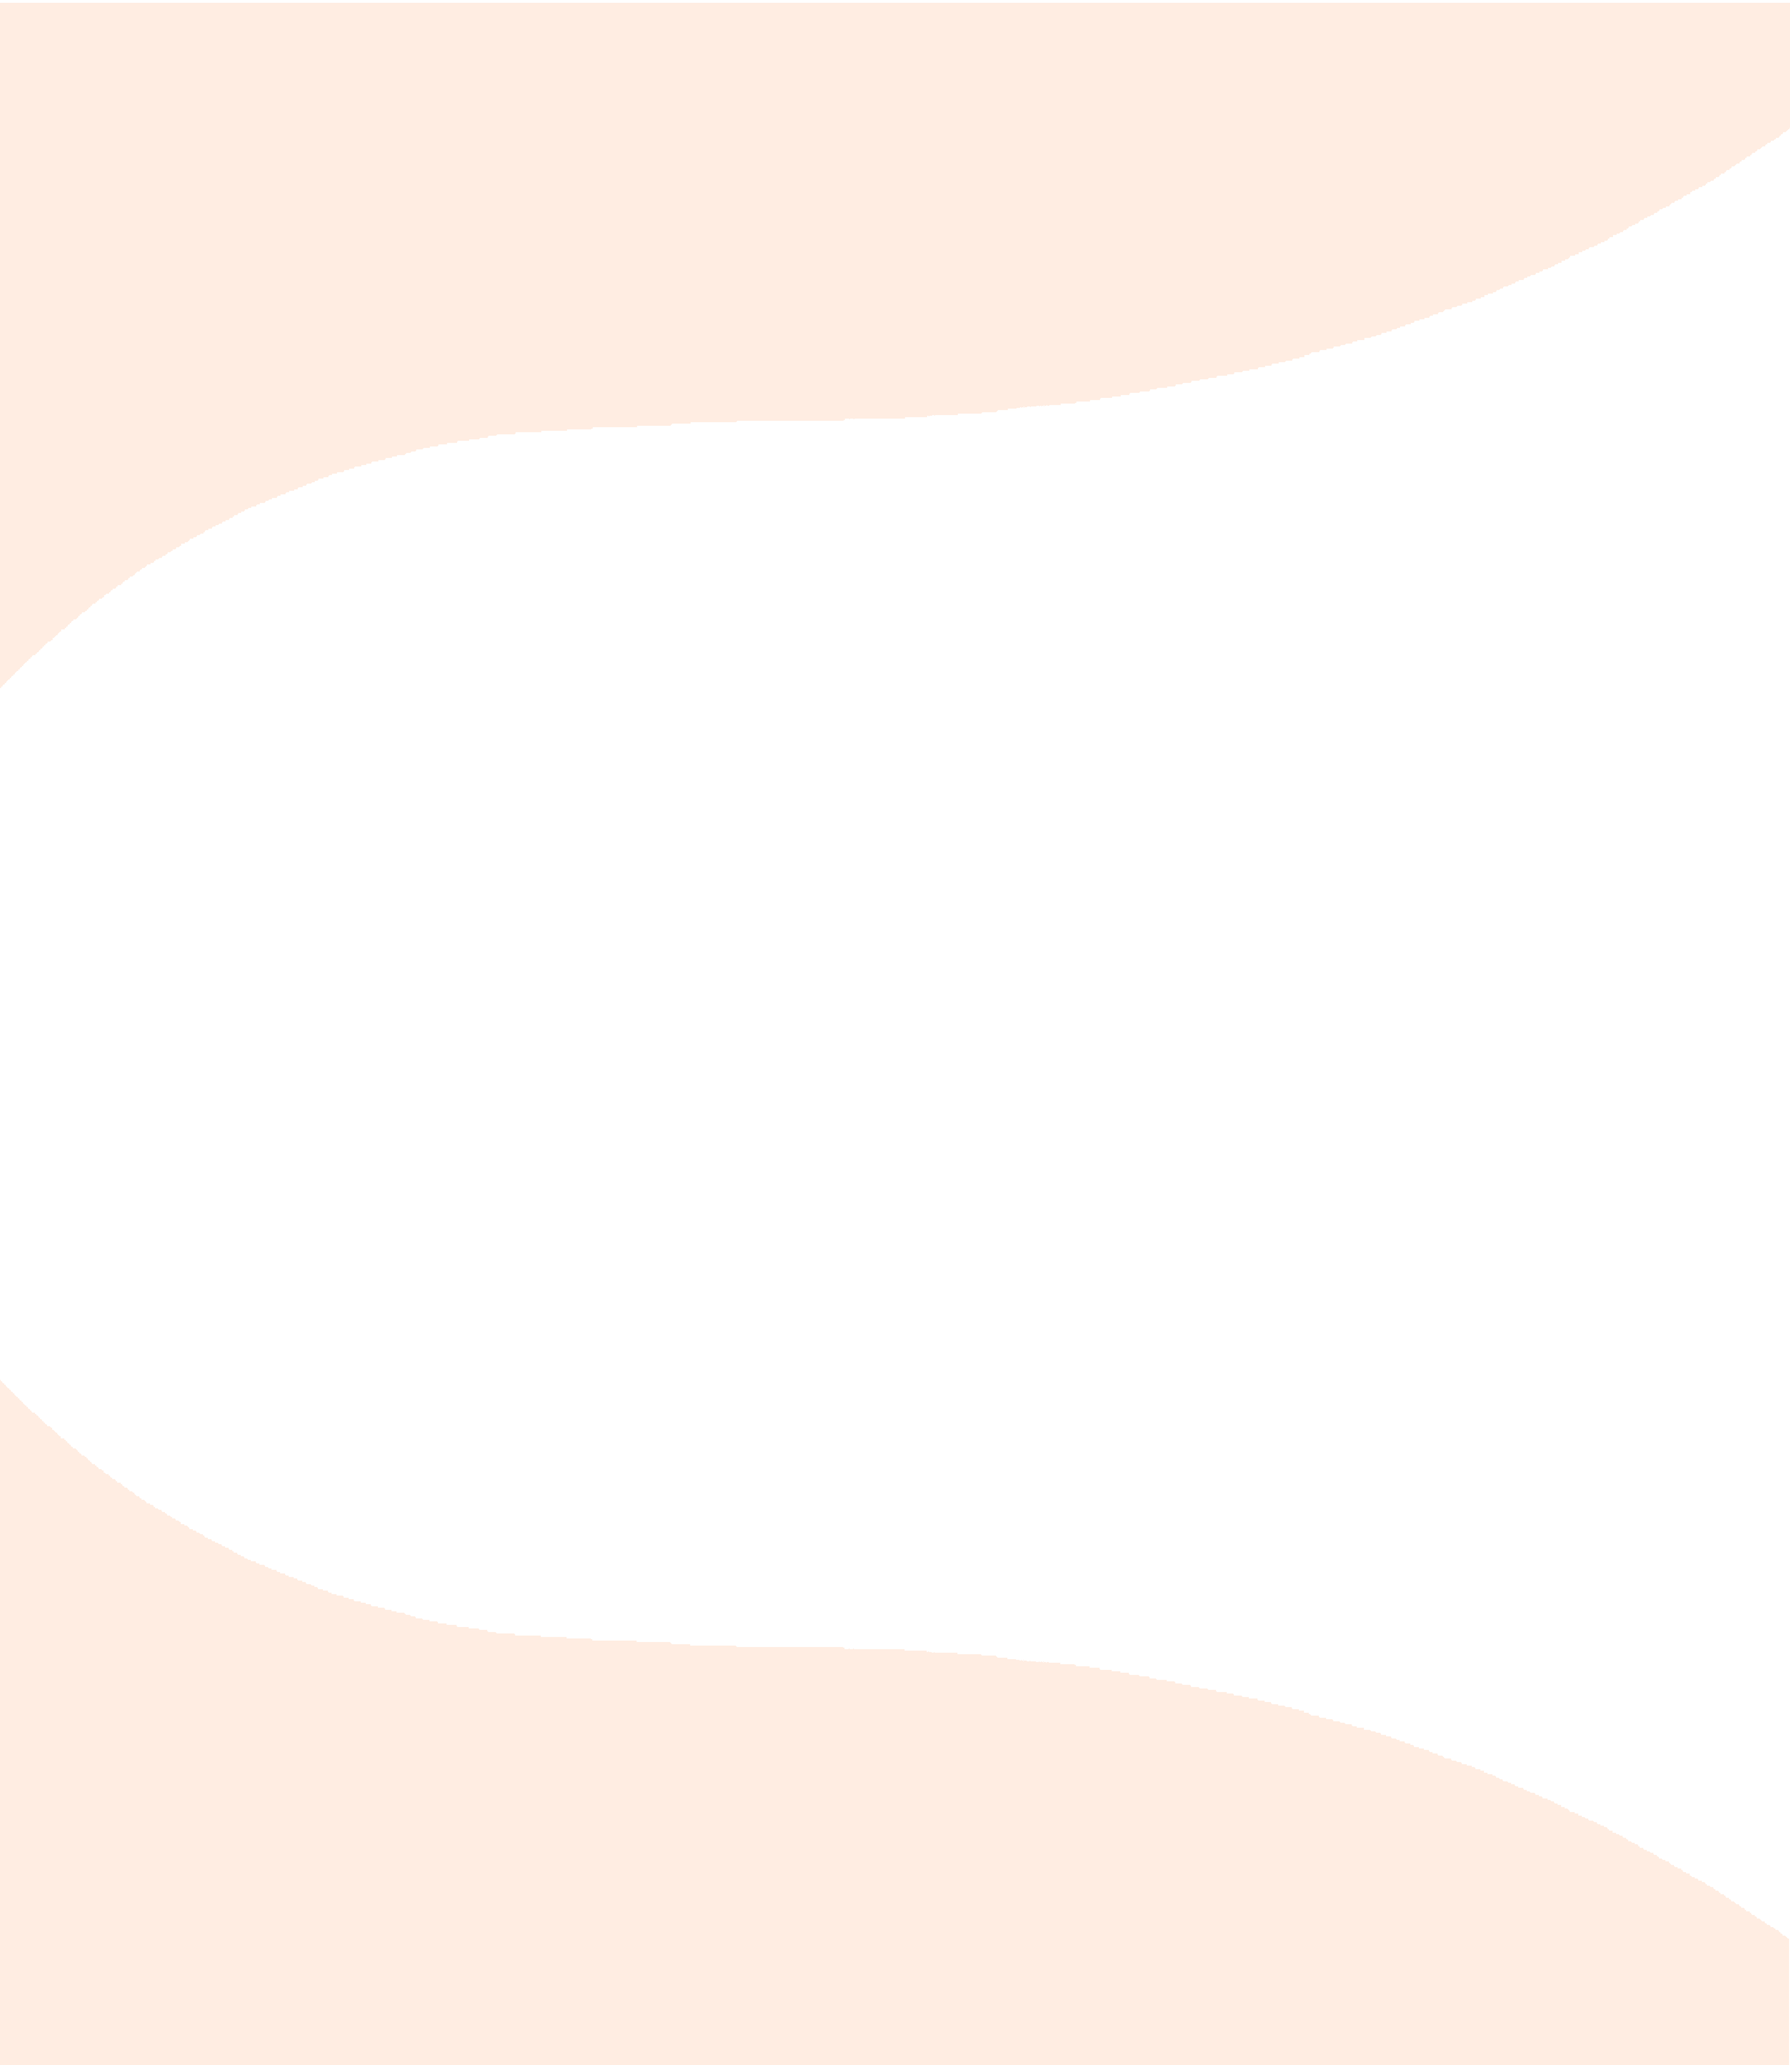
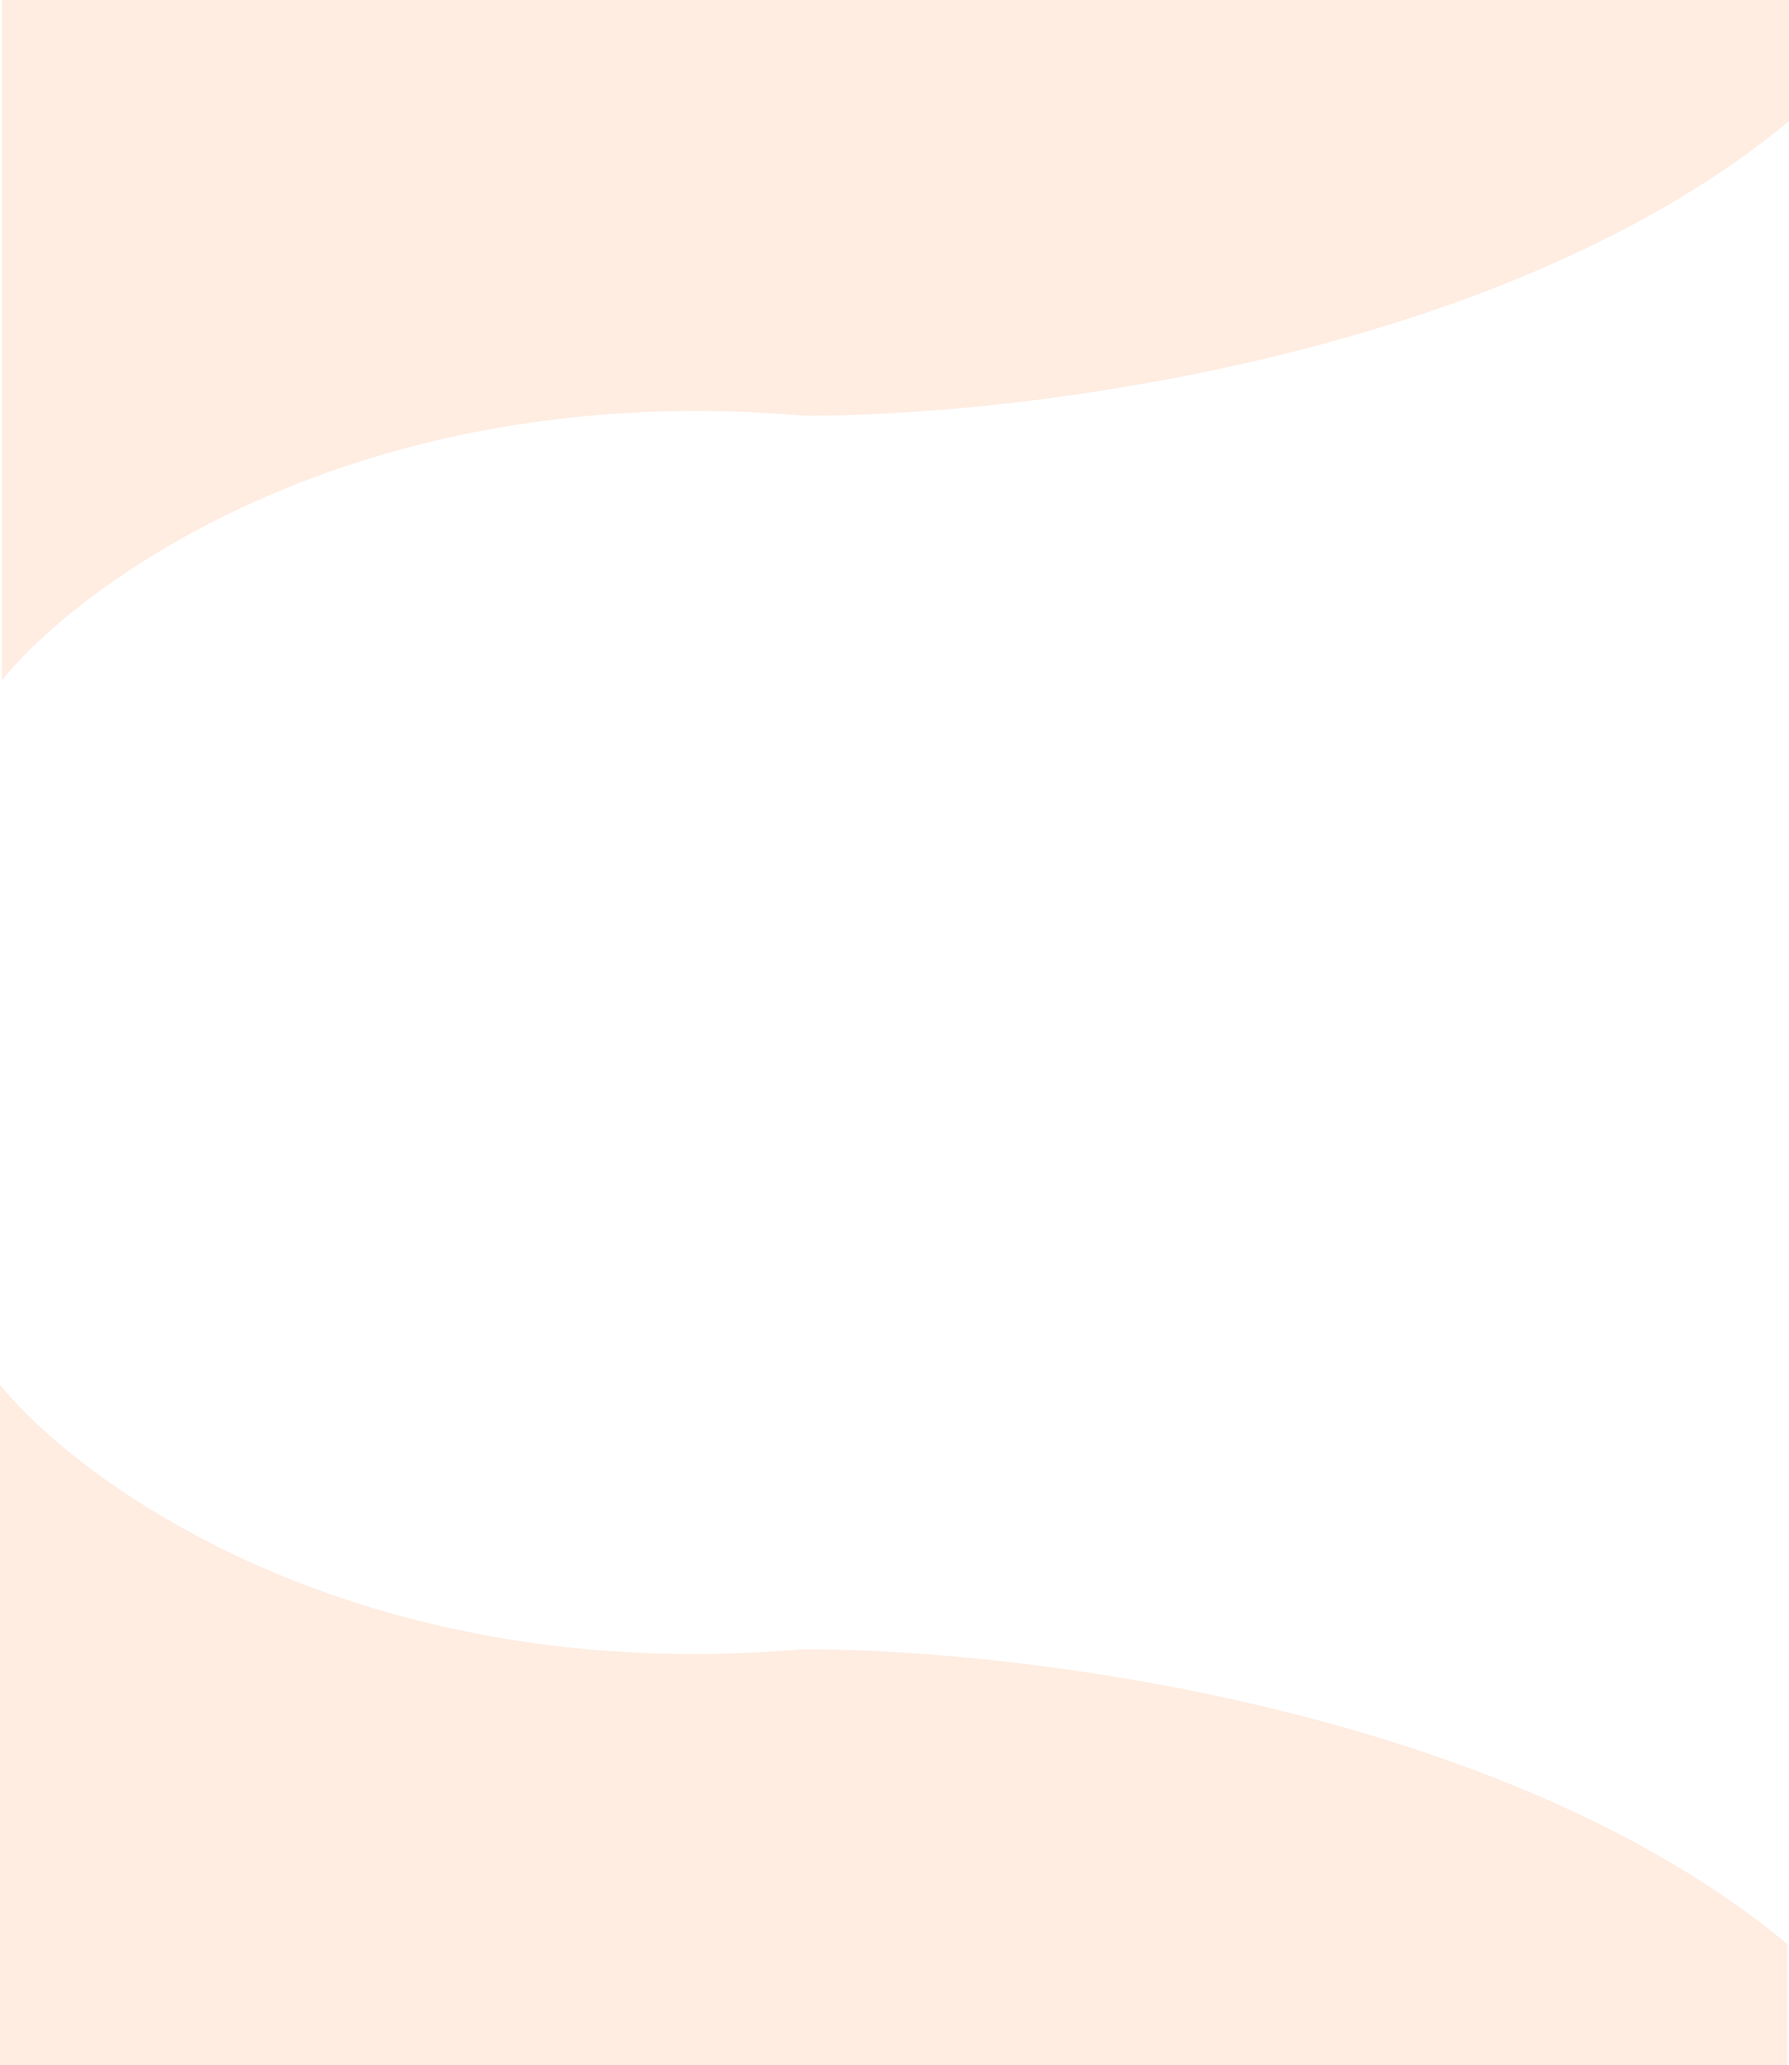
Better quality bg img

diff --git a/youfruit-react/src/pages/shop/shop.js b/youfruit-react/src/pages/shop/shop.js
@@ -6,7 +6,10 @@ class Shop extends Component {
     render() {
         return (
             <div className="shop">
-                <p className="text-llg section-headline">Пастила</p>
+                <div className="shop-headline">
+                    <p className="text-llg section-headline">Фруктовые чипсы</p>
+
+                </div>
                 <div className="underline"></div>
                 <div className="container">
 
@@ -151,8 +154,10 @@ class Shop extends Component {
 
                     </section>
 
+                    <div className="shop-headline">
+                        <p className="text-llg section-headline">Фруктовые чипсы</p>
 
-                    <p className="text-llg section-headline">Фруктовые чипсы</p>
+                    </div>
                     <div className="underline"></div>
 
 

diff --git a/youfruit-react/src/pages/blog/blog.js b/youfruit-react/src/pages/blog/blog.js
@@ -7,7 +7,10 @@ class Blog extends Component {
 
             <section className="blog">
                 <div className="container">
-                    <p className="text-llg section-headline">Блог</p>
+                    <div className="shop-headline">
+                        <p className="text-llg section-headline">Блог</p>
+                    </div>
+
                     <div className="underline"></div>
 
                     <div className="blog-wrap grid-container">

diff --git a/youfruit-react/src/pages/shop/shop.css b/youfruit-react/src/pages/shop/shop.css
@@ -2,6 +2,18 @@
 background: url(../../img/bg-shop.png);
 background-size: cover;
 background-repeat: round;
+padding-top: 120px;
+}
+.shop-headline{
+   background: #fff;
+   width: fit-content;
+   border-radius: 30px;
+   margin: 0 auto;
+   padding: 5px 20px;
+   box-shadow: 5px 3px 30px rgba(0,0,0,0.1);
+}
+.shop-headline p{
+margin: 0 !important;
 }
 .shop-wrap{
 grid-template-columns: 1fr 1fr 1fr 1fr;
